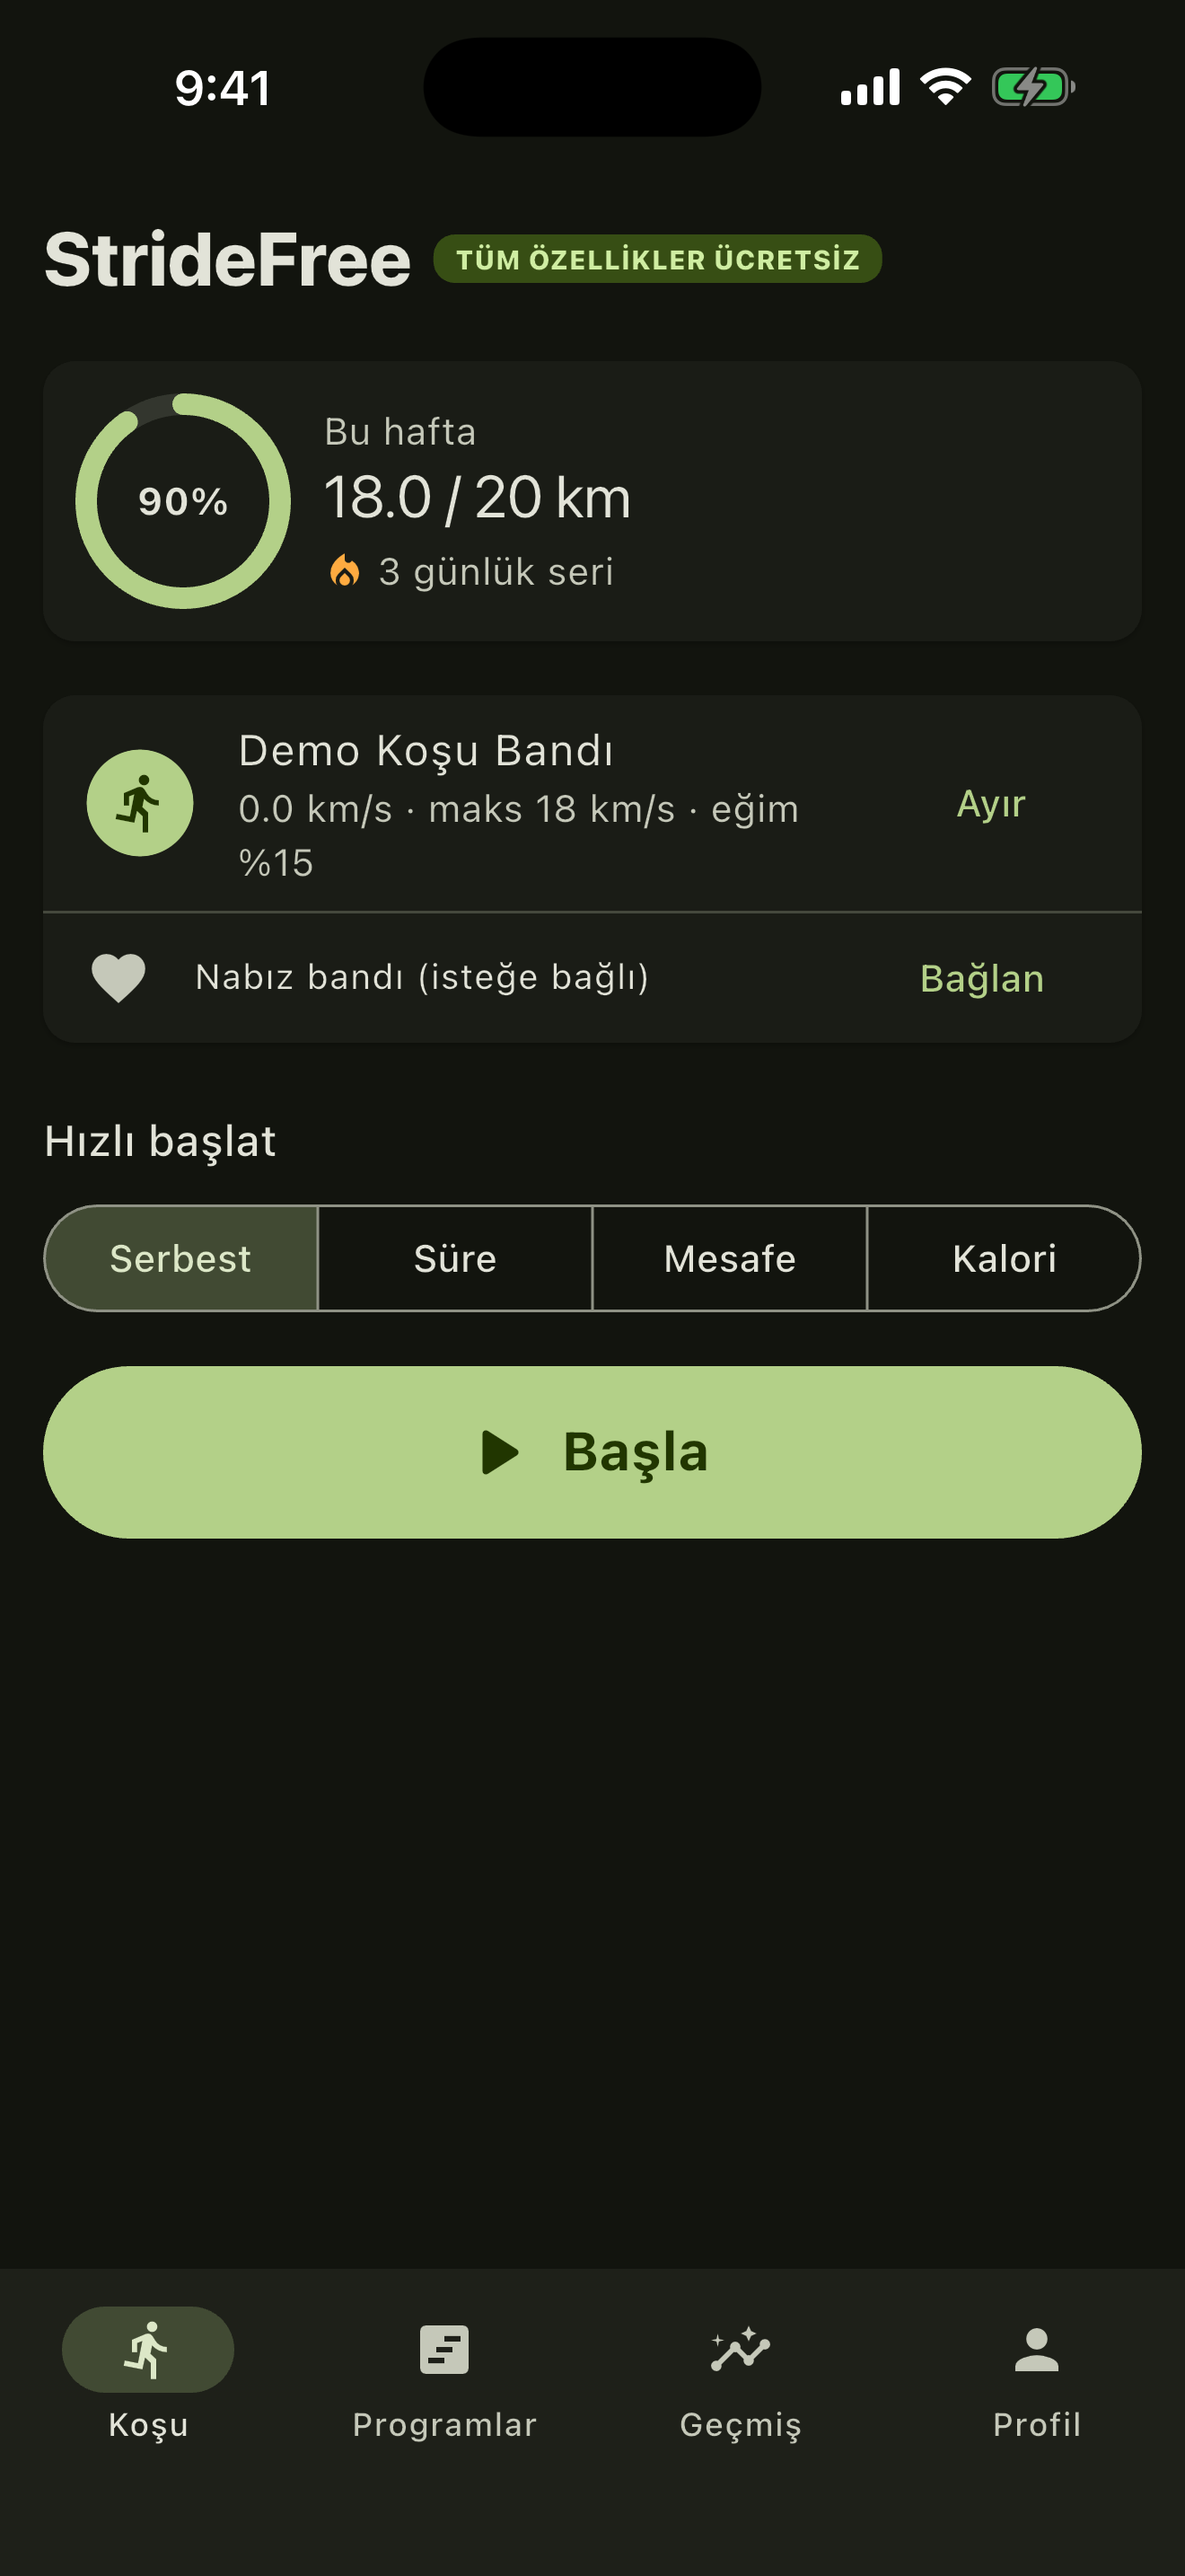
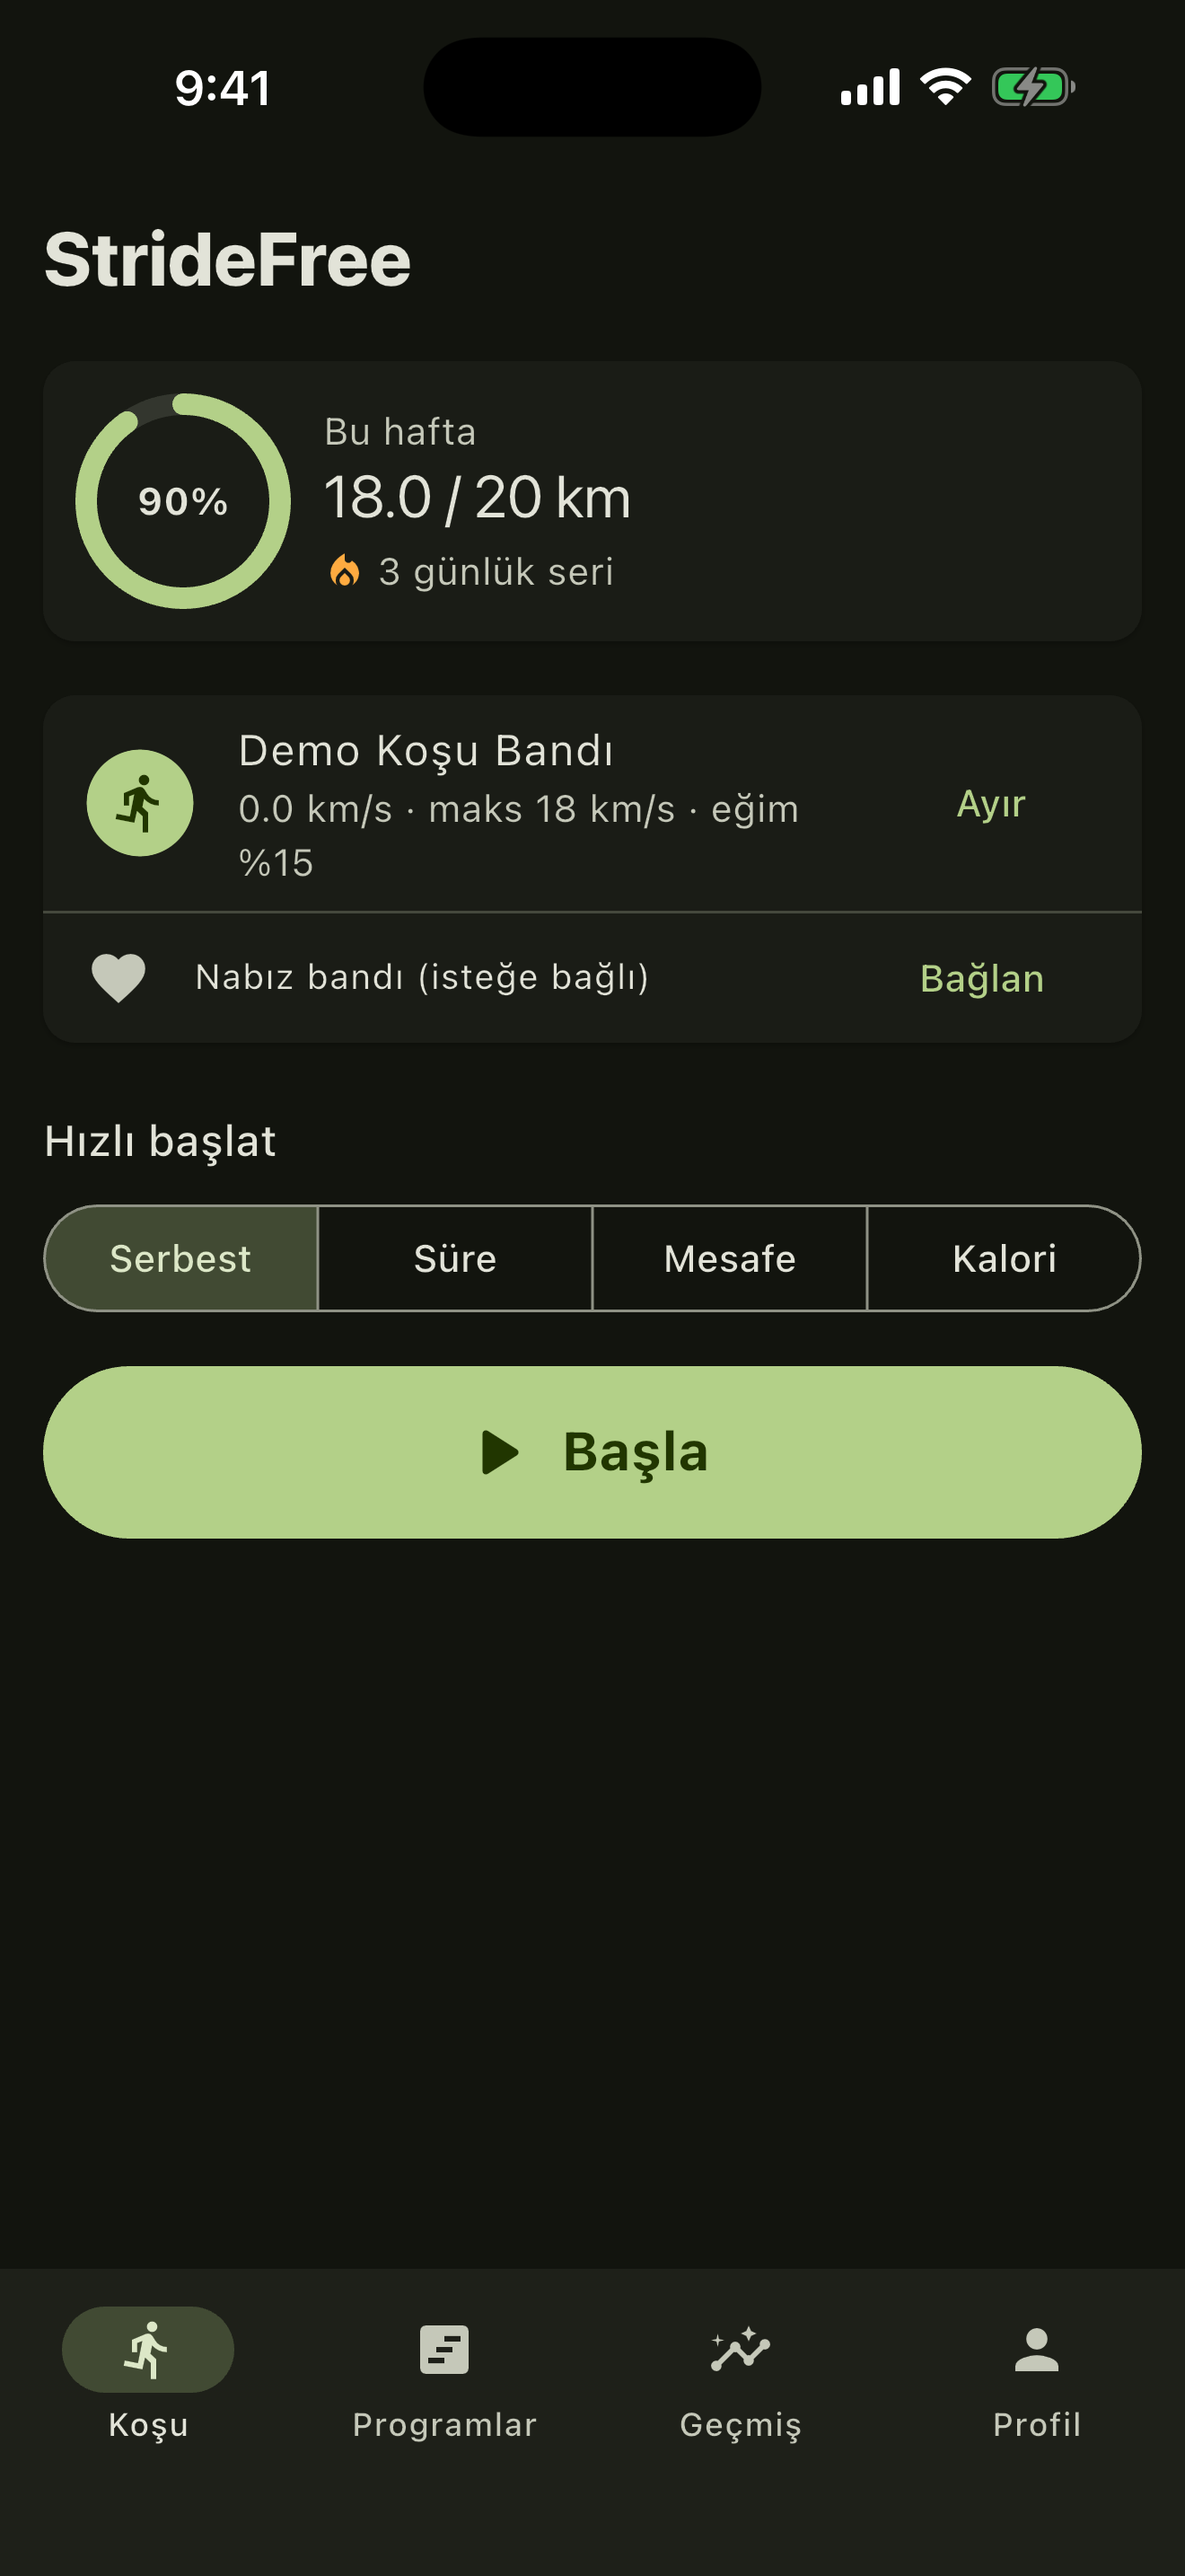
App Store 1.5/2.3.7: support page, remove free badge from screenshot

Changed region(s): [[0.3727, 0.0931, 0.7455, 0.1241]]

diff --git a/web/support/index.html b/web/support/index.html
@@ -1,0 +1,88 @@
+<!DOCTYPE html>
+<html lang="tr">
+<head>
+<meta charset="UTF-8">
+<meta name="viewport" content="width=device-width, initial-scale=1">
+<title>StrideFree Destek / Support</title>
+<meta name="description" content="StrideFree koşu bandı uygulaması için destek, sık sorulan sorular ve iletişim. Support, FAQ and contact for the StrideFree treadmill app.">
+<link rel="icon" href="../favicon.png">
+<style>
+  :root { --bg:#12140e; --card:#1d2019; --text:#e6e8df; --muted:#a9ad9f; --accent:#b2d08b; --line:#2e3228; }
+  * { box-sizing: border-box; }
+  body { margin:0; background:var(--bg); color:var(--text); font:16px/1.6 -apple-system, BlinkMacSystemFont, "Segoe UI", Roboto, sans-serif; }
+  main { max-width:760px; margin:0 auto; padding:32px 16px 64px; }
+  h1 { font-size:2rem; margin:0 0 4px; }
+  h2 { font-size:1.3rem; margin:40px 0 12px; padding-top:16px; border-top:1px solid var(--line); }
+  h3 { font-size:1.05rem; margin:20px 0 4px; }
+  p, li { color:var(--text); }
+  .muted { color:var(--muted); }
+  a { color:var(--accent); }
+  .card { background:var(--card); border-radius:16px; padding:16px 20px; margin:16px 0; }
+  .lang { display:flex; gap:12px; margin:12px 0 24px; }
+  ul { padding-left:20px; }
+</style>
+</head>
+<body>
+<main>
+  <h1>StrideFree</h1>
+  <p class="muted">Destek · Support</p>
+  <nav class="lang"><a href="#tr">Türkçe</a><a href="#en">English</a></nav>
+
+  <section id="tr">
+    <h2>Destek</h2>
+    <div class="card">
+      <h3>Bize ulaşın</h3>
+      <p>Soru, sorun veya öneriniz için <a href="https://github.com/alisenn/stridefree/issues/new/choose">destek talebi açın</a>. Bandınızın marka/modelini, telefon modelinizi ve sorunu nasıl yaşadığınızı yazın. Genellikle birkaç gün içinde yanıt veriyoruz.</p>
+      <p>Önceki talepler: <a href="https://github.com/alisenn/stridefree/issues">github.com/alisenn/stridefree/issues</a></p>
+    </div>
+
+    <h3>Bandım listede görünmüyor</h3>
+    <ul>
+      <li>Telefonun Bluetooth'u açık olmalı ve StrideFree'ye Bluetooth izni verilmiş olmalı (Ayarlar › StrideFree › Bluetooth).</li>
+      <li>Bandı açın; bandın kendi uygulaması veya başka bir telefon bağlıysa önce onu ayırın.</li>
+      <li>StrideFree, Bluetooth FTMS uyumlu bantlarla ve FitShow modüllü bantlarla çalışır.</li>
+    </ul>
+
+    <h3>Bağlantı koptu</h3>
+    <p>Antrenman otomatik duraklar ve uygulama yeniden bağlanmayı dener. Bağlanınca kaldığınız yerden devam edebilirsiniz.</p>
+
+    <h3>Başka uygulamaya geçince ne olur?</h3>
+    <p>iOS uygulamayı arka planda askıya alabilir. Uygulamaya döndüğünüzde mesafe ve süre bandın kendi sayaçlarından tamamlanır. Programlardaki otomatik hız değişimi için uygulamanın açık olması gerekir.</p>
+
+    <h3>Bandım olmadan deneyebilir miyim?</h3>
+    <p>Evet. Ana ekrandaki <b>Demo</b> düğmesi sanal bir bant bağlar.</p>
+
+    <h3>Verilerim nerede?</h3>
+    <p>Tüm veriler yalnızca telefonunuzda saklanır; hesap veya sunucu yoktur. Profil sekmesinden yedek alabilir, antrenmanları TCX olarak dışa aktarabilirsiniz. Ayrıntılar: <a href="https://github.com/alisenn/stridefree/blob/main/PRIVACY.md">Gizlilik politikası</a>.</p>
+  </section>
+
+  <section id="en">
+    <h2>Support</h2>
+    <div class="card">
+      <h3>Contact us</h3>
+      <p>For questions, problems or ideas, <a href="https://github.com/alisenn/stridefree/issues/new/choose">open a support request</a>. Include your treadmill brand/model, your phone model and what happened. We usually reply within a few days.</p>
+      <p>Existing requests: <a href="https://github.com/alisenn/stridefree/issues">github.com/alisenn/stridefree/issues</a></p>
+    </div>
+
+    <h3>My treadmill doesn't show up</h3>
+    <ul>
+      <li>Bluetooth must be on and StrideFree must have Bluetooth permission (Settings › StrideFree › Bluetooth).</li>
+      <li>Turn the treadmill on; disconnect the treadmill maker's app or any other phone first.</li>
+      <li>StrideFree works with Bluetooth FTMS treadmills and treadmills with a FitShow module.</li>
+    </ul>
+
+    <h3>The connection dropped</h3>
+    <p>The workout pauses automatically and the app tries to reconnect. Once connected you can continue where you left off.</p>
+
+    <h3>What happens when I switch to another app?</h3>
+    <p>iOS may suspend the app in the background. When you come back, distance and time are caught up from the treadmill's own counters. Automatic speed changes in programs need the app to be open.</p>
+
+    <h3>Can I try it without a treadmill?</h3>
+    <p>Yes. Tap <b>Demo</b> on the home screen to connect a simulated treadmill.</p>
+
+    <h3>Where is my data?</h3>
+    <p>Everything is stored only on your phone; there are no accounts or servers. You can back up from the Profile tab and export workouts as TCX. Details: <a href="https://github.com/alisenn/stridefree/blob/main/PRIVACY.md">Privacy policy</a>.</p>
+  </section>
+</main>
+</body>
+</html>

diff --git a/store/app-store-tr.md b/store/app-store-tr.md
@@ -6,13 +6,13 @@
 **Fiyat:** Ücretsiz · uygulama içi satın alma yok
 **Yaş sınırı:** 4+
 **Gizlilik politikası:** https://github.com/alisenn/stridefree/blob/main/PRIVACY.md
-**Destek:** https://github.com/alisenn/stridefree/issues
+**Destek:** https://alisenn.github.io/stridefree/support/
 **Gizlilik etiketi:** Veri Toplanmıyor (Data Not Collected)
 
 ## Tanıtım metni (170)
 Koşu bandınızı telefondan yönetin: hız ve eğim kontrolü, hazır ve özel programlar, nabız takibi, haftalık, aylık ve yıllık istatistikler.
 
-> Apple 2.3.7: ad, alt başlık ve tanıtım metninde fiyat/"ücretsiz" geçmemeli; yalnızca açıklamada olabilir.
+> Apple 2.3.7: ad, alt başlık, tanıtım metni ve ekran görüntülerinde fiyat/"ücretsiz" geçmemeli; yalnızca açıklamada olabilir.
 
 ## Açıklama
 StrideFree, Bluetooth'lu koşu bantları için tamamen ücretsiz ve açık kaynaklı bir kontrol uygulamasıdır. Başka uygulamalarda ücretli olan her şey burada ücretsiz.
